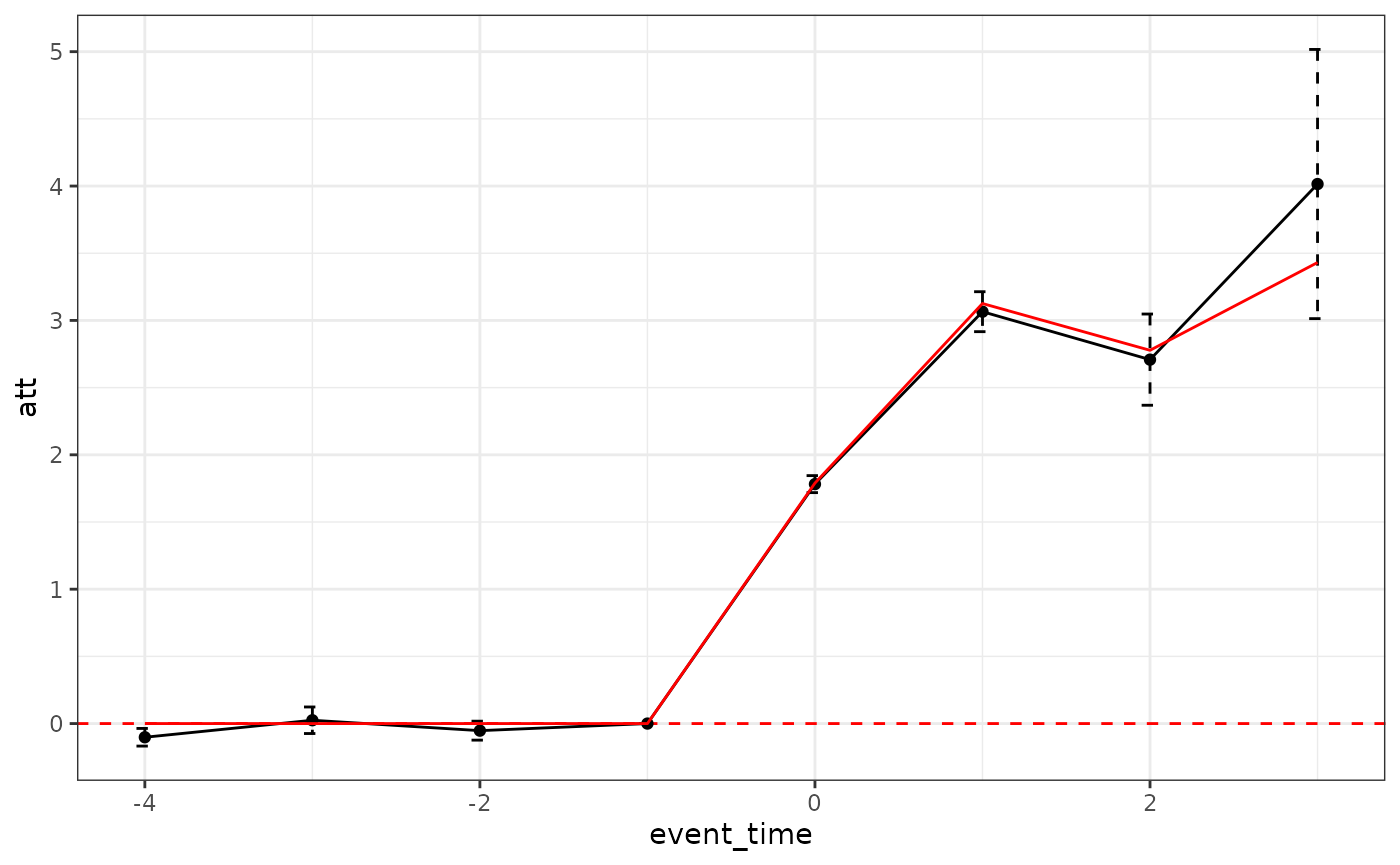
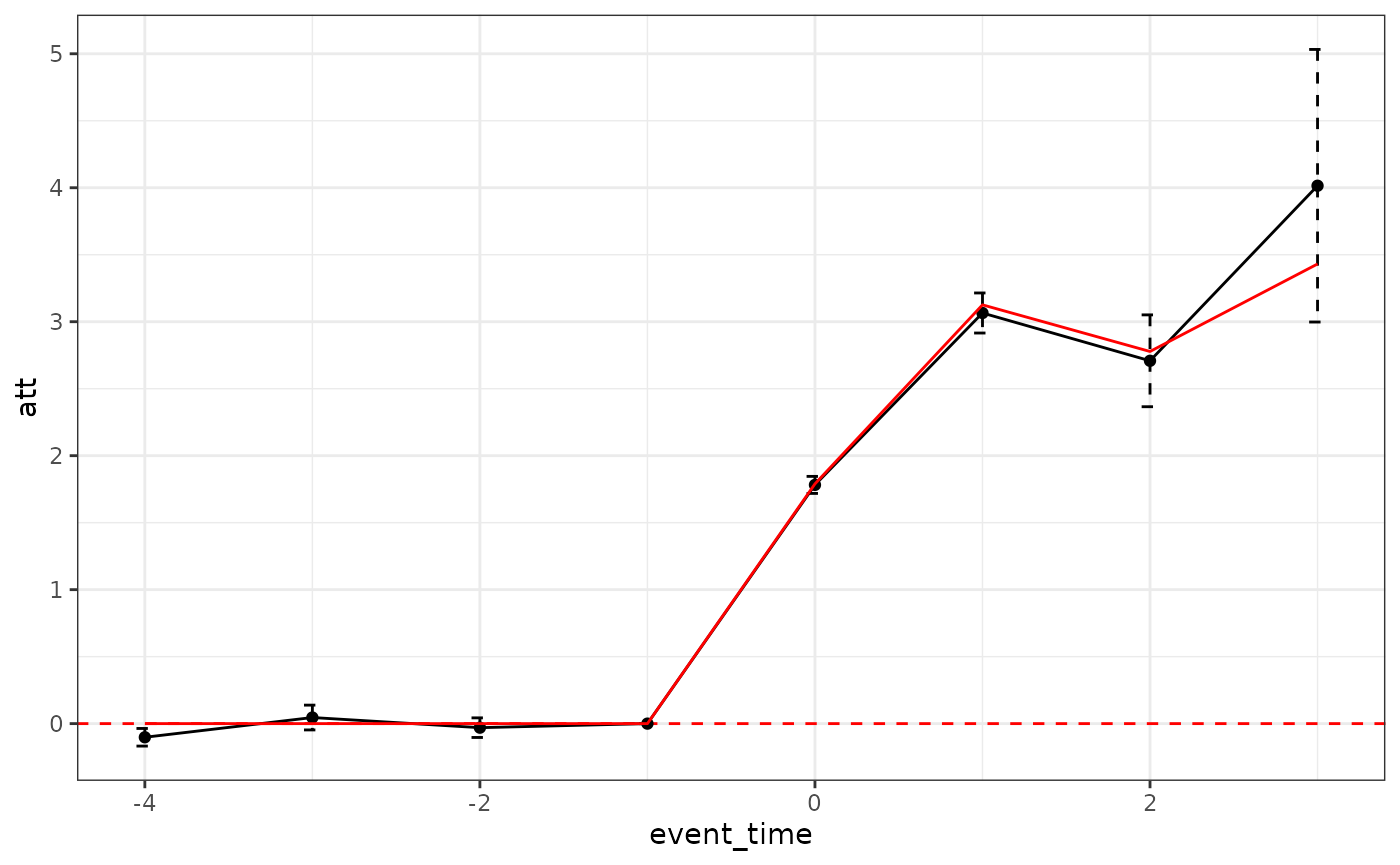
Deploying to gh-pages from @ TsaiLintung/fastdid@403307a6a990321c747772aa2d690177b75b6ab3 🚀

diff --git a/news/index.html b/news/index.html
@@ -39,12 +39,21 @@
 
     <div class="section level2">
 <h2 class="pkg-version" data-toc-text="1.0.7" id="fastdid-107">fastdid 1.0.7<a class="anchor" aria-label="anchor" href="#fastdid-107"></a></h2>
-<ul><li>Extended double DiD to support M&gt;2 treatment events: <code>cohortvar2</code> now accepts a character vector of length M-1 (e.g. <code>c("G2", "G3")</code> for three events)</li>
-<li>Added <code>add_base_period</code> parameter: inserts a zero-ATT placeholder at the base period in <code>result_type = "dynamic"</code> results</li>
-<li>Added experimental options <code>only_est_min</code> and <code>only_est_max</code> in <code>exper</code>: restrict estimation to a specific event-time range in dynamic mode, skipping g-t pairs outside the window</li>
-<li>Improved input validation: errors on negative <code>anticipation</code>/<code>anticipation2</code>, time-varying weights, and <code>balanced_event_time</code> exceeding data range</li>
-<li>Restored <code>parglm</code> dependency for multi-threaded propensity score estimation; thread count automatically matched to <code><a href="https://rdrr.io/pkg/data.table/man/openmp-utils.html" class="external-link">getDTthreads()</a></code> (or 1 when <code>parallel = TRUE</code>)</li>
-<li>Various bug fixes and robustness improvements for double DiD aggregation and weight handling</li>
+<ul><li><p>Fixed the double DiD control set of the DiD case: with M &gt;= 3 events a control cohort with an event that the target cohort does not have was used, which biased <code>ATT^1</code>. A control must now be not yet confounded by every such event</p></li>
+<li><p>The DiD case of double DiD is now reported for the post-periods of the first event only, as the theorem states</p></li>
+<li><p>Fixed the influence function of the double DiD weights: the weights are a signed pair and each period is normalized on its own</p></li>
+<li><p>Fixed the control cohorts of double DiD when a first-stage cell is missing: both periods now normalize over the cohorts available at both</p></li>
+<li><p><code>anticipation2</code> now moves the boundary of the direct case, and enters the not-yet-treated control cutoff of the first stage</p></li>
+<li><p>Added validation of the confounding cohort columns: a missing value drops the unit with a warning, and a fractional value raises an error</p></li>
+<li><p>Added a warning when no event-specific post-period effect is identified for any cohort</p></li>
+<li><p>Fixed small-group variance understatement: the residual influence of each 2x2 group is inflated by the Kish effective size, <code>sqrt(ess/(ess-1))</code>. Without the inflation the plug-in variance of a group of m units is deflated by (m-1)/m, which under-covers when cells are small (for example the cross-cohorts of double DiD)</p></li>
+<li><p>A 2x2 cell with fewer than 2 effective units in a group is now skipped with a warning: its residual is zero, so its variance is not estimable and the standard error understates the truth</p></li>
+<li><p>Extended double DiD to support M&gt;2 treatment events: <code>cohortvar2</code> now accepts a character vector of length M-1 (e.g. <code>c("G2", "G3")</code> for three events)</p></li>
+<li><p>Added <code>add_base_period</code> parameter: inserts a zero-ATT placeholder at the base period in <code>result_type = "dynamic"</code> results</p></li>
+<li><p>Added experimental options <code>only_est_min</code> and <code>only_est_max</code> in <code>exper</code>: restrict estimation to a specific event-time range in dynamic mode, skipping g-t pairs outside the window</p></li>
+<li><p>Improved input validation: errors on negative <code>anticipation</code>/<code>anticipation2</code>, time-varying weights, and <code>balanced_event_time</code> exceeding data range</p></li>
+<li><p>Restored <code>parglm</code> dependency for multi-threaded propensity score estimation; thread count automatically matched to <code><a href="https://rdrr.io/pkg/data.table/man/openmp-utils.html" class="external-link">getDTthreads()</a></code> (or 1 when <code>parallel = TRUE</code>)</p></li>
+<li><p>Various bug fixes and robustness improvements for double DiD aggregation and weight handling</p></li>
 </ul></div>
     <div class="section level2">
 <h2 class="pkg-version" data-toc-text="1.0.6" id="fastdid-106">fastdid 1.0.6<a class="anchor" aria-label="anchor" href="#fastdid-106"></a></h2><p class="text-muted">CRAN release: 2026-01-14</p>

diff --git a/reference/fastdid.html b/reference/fastdid.html
@@ -217,7 +217,7 @@
 
 
 <dt id="arg-double-control-option">double_control_option<a class="anchor" aria-label="anchor" href="#arg-double-control-option"></a></dt>
-<dd><p>character, control units used for the double DiD, options are "both", "never", or "notyet".</p></dd>
+<dd><p>character, control units used for the double DiD, options are "both", "never", or "notyet". "notyet" keeps a control cohort only if every confounding event is finite and later than the period, so the control must be confounded eventually by all of them. With M &gt;= 3 events this can leave very few control cohorts, and "both" is the recommended option.</p></dd>
 
 
 <dt id="arg-add-base-period">add_base_period<a class="anchor" aria-label="anchor" href="#arg-add-base-period"></a></dt>

diff --git a/news/index.md b/news/index.md
@@ -2,21 +2,59 @@
 
 ## fastdid 1.0.7
 
+- Fixed the double DiD control set of the DiD case: with M \>= 3 events
+  a control cohort with an event that the target cohort does not have
+  was used, which biased `ATT^1`. A control must now be not yet
+  confounded by every such event
+
+- The DiD case of double DiD is now reported for the post-periods of the
+  first event only, as the theorem states
+
+- Fixed the influence function of the double DiD weights: the weights
+  are a signed pair and each period is normalized on its own
+
+- Fixed the control cohorts of double DiD when a first-stage cell is
+  missing: both periods now normalize over the cohorts available at both
+
+- `anticipation2` now moves the boundary of the direct case, and enters
+  the not-yet-treated control cutoff of the first stage
+
+- Added validation of the confounding cohort columns: a missing value
+  drops the unit with a warning, and a fractional value raises an error
+
+- Added a warning when no event-specific post-period effect is
+  identified for any cohort
+
+- Fixed small-group variance understatement: the residual influence of
+  each 2x2 group is inflated by the Kish effective size,
+  `sqrt(ess/(ess-1))`. Without the inflation the plug-in variance of a
+  group of m units is deflated by (m-1)/m, which under-covers when cells
+  are small (for example the cross-cohorts of double DiD)
+
+- A 2x2 cell with fewer than 2 effective units in a group is now skipped
+  with a warning: its residual is zero, so its variance is not estimable
+  and the standard error understates the truth
+
 - Extended double DiD to support M\>2 treatment events: `cohortvar2` now
   accepts a character vector of length M-1 (e.g. `c("G2", "G3")` for
   three events)
+
 - Added `add_base_period` parameter: inserts a zero-ATT placeholder at
   the base period in `result_type = "dynamic"` results
+
 - Added experimental options `only_est_min` and `only_est_max` in
   `exper`: restrict estimation to a specific event-time range in dynamic
   mode, skipping g-t pairs outside the window
+
 - Improved input validation: errors on negative
   `anticipation`/`anticipation2`, time-varying weights, and
   `balanced_event_time` exceeding data range
+
 - Restored `parglm` dependency for multi-threaded propensity score
   estimation; thread count automatically matched to
   [`getDTthreads()`](https://rdrr.io/pkg/data.table/man/openmp-utils.html)
   (or 1 when `parallel = TRUE`)
+
 - Various bug fixes and robustness improvements for double DiD
   aggregation and weight handling
 

diff --git a/reference/fastdid.md b/reference/fastdid.md
@@ -200,7 +200,11 @@ fastdid(
 - double_control_option:
 
   character, control units used for the double DiD, options are "both",
-  "never", or "notyet".
+  "never", or "notyet". "notyet" keeps a control cohort only if every
+  confounding event is finite and later than the period, so the control
+  must be confounded eventually by all of them. With M \>= 3 events this
+  can leave very few control cohorts, and "both" is the recommended
+  option.
 
 - add_base_period:
 
